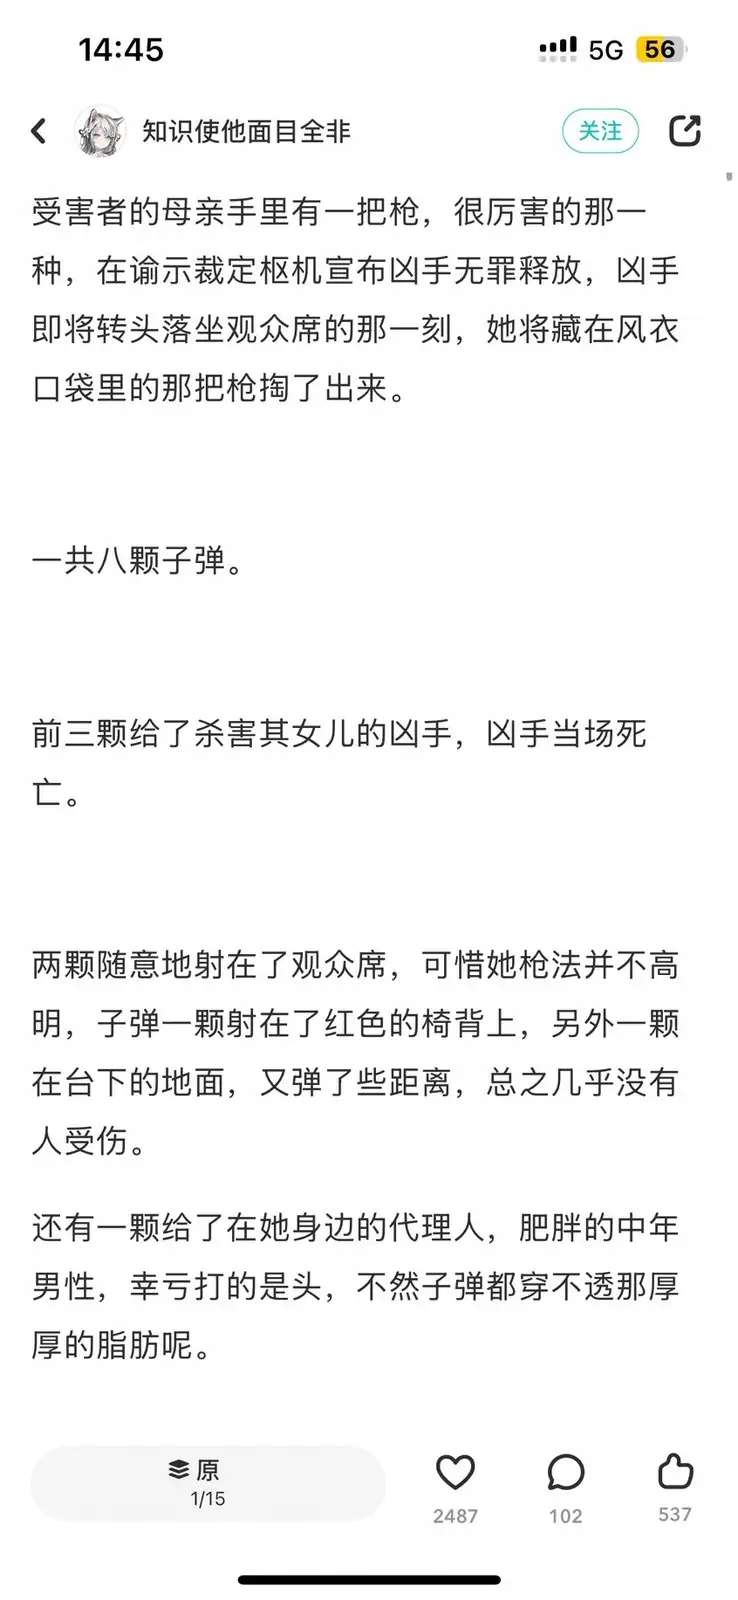
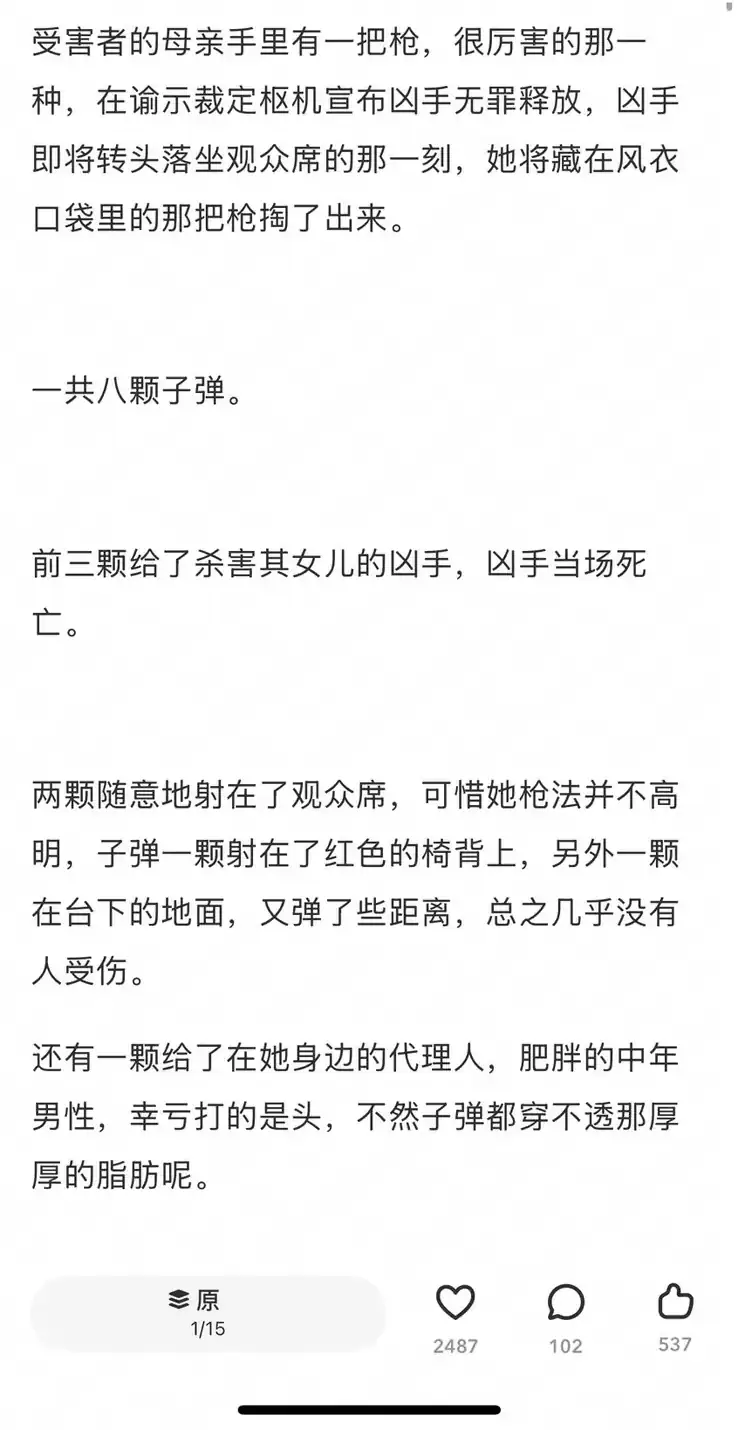
Add swipeable OC galleries and expand game list

diff --git a/demo/games.html b/demo/games.html
@@ -48,15 +48,18 @@
           </div>
         </section>
 
-        <details class="games-full">
-          <summary>展开完整 37 款游戏清单 / FULL LIST</summary>
+        <section class="games-section games-full-open" id="full-list">
+          <div class="games-section__head">
+            <h2>完整游戏经历 / FULL LIST</h2>
+            <span>底色标出有商业化拆解的重点游戏</span>
+          </div>
           <div class="games-table-wrap">
             <table class="games-table">
               <thead><tr><th>分类</th><th>游戏名称</th><th>平台</th><th>类型</th><th>时长</th><th>成就</th><th>付费经历</th></tr></thead>
-              <tbody><tr><td>一般向·二次元RPG/开放世界</td><td>Fate/Grand Order</td><td>移动</td><td>二次元RPG</td><td>1200+小时</td><td>主线剧情全通，等级60-70，累计签到3000+天</td><td>累计氪金1w+</td></tr><tr><td>一般向·二次元RPG/开放世界</td><td>原神</td><td>移动、PC</td><td>开放世界RPG</td><td>800+小时</td><td>主线&amp;传说任务全通，等级60-70，同人UGC曝光200万+</td><td>少量付费</td></tr><tr><td>一般向·二次元RPG/开放世界</td><td>崩坏：星穹铁道</td><td>移动、PC</td><td>回合制RPG</td><td>700+小时</td><td>主线剧情全通，开拓等级60-70，同人UGC曝光150万+</td><td>少量付费</td></tr><tr><td>一般向·二次元RPG/开放世界</td><td>鸣潮</td><td>移动、PC</td><td>开放世界动作RPG</td><td>600+小时</td><td>主线剧情全通，等级60-70，全角色养成、日常满勤</td><td>少量付费</td></tr><tr><td>一般向·二次元RPG/开放世界</td><td>异环</td><td>移动、PC</td><td>开放世界RPG</td><td>450+小时</td><td>主线剧情全通，等级60-70，玩法全解锁，持续跟进版本</td><td>少量付费</td></tr><tr><td>乙女·恋爱剧情向</td><td>世界之外</td><td>移动</td><td>乙女恋爱</td><td>500+小时</td><td>主线剧情全通，卡面收集86%</td><td>累计付费600+</td></tr><tr><td>乙女·恋爱剧情向</td><td>恋与深空</td><td>移动</td><td>乙女恋爱</td><td>480+小时</td><td>主线剧情全通，卡面收集82%</td><td>累计付费550+</td></tr><tr><td>乙女·恋爱剧情向</td><td>时空中的绘旅人</td><td>移动</td><td>乙女恋爱</td><td>420+小时</td><td>主线剧情全通，卡面收集78%</td><td>累计付费450+</td></tr><tr><td>乙女·恋爱剧情向</td><td>恋与制作人</td><td>移动</td><td>乙女恋爱</td><td>400+小时</td><td>主线剧情全通，卡面收集75%</td><td>累计付费400+</td></tr><tr><td>乙女·恋爱剧情向</td><td>未定事件簿</td><td>移动</td><td>乙女恋爱</td><td>380+小时</td><td>主线剧情全通，卡面收集72%</td><td>累计付费350+</td></tr><tr><td>乙女·恋爱剧情向</td><td>如鸢（代号鸢）</td><td>移动</td><td>乙女剧情向</td><td>360+小时</td><td>主线剧情全通，卡面收集70%</td><td>累计付费300+</td></tr><tr><td>乙女·恋爱剧情向</td><td>夜幕之下</td><td>移动</td><td>乙女恋爱</td><td>320+小时</td><td>主线剧情全通，卡面收集66%</td><td>累计付费250+</td></tr><tr><td>换装·女性向</td><td>无限暖暖</td><td>移动</td><td>换装开放世界</td><td>400+小时</td><td>主线剧情全通，开放世界探索，套装收集72%</td><td>累计付费300+</td></tr><tr><td>换装·女性向</td><td>闪耀暖暖</td><td>移动</td><td>换装养成</td><td>550+小时</td><td>主线剧情全通，套装收集80%，长期参与搭配赛</td><td>累计付费600+</td></tr><tr><td>非对称对抗</td><td>第五人格</td><td>移动、PC</td><td>非对称对抗</td><td>600+小时</td><td>赛季剧情全通，六阶段位，角色熟练度80%</td><td>少量付费</td></tr><tr><td>射击竞技</td><td>绝地求生 PUBG</td><td>PC</td><td>射击竞技</td><td>500+小时</td><td>累计500+小时，皇冠段位</td><td>少量付费</td></tr><tr><td>Steam单机·主机体验</td><td>鬼泣5</td><td>PC、主机</td><td>动作单机</td><td>120+小时</td><td>全DLC通关，DMD最高难度通关</td><td>一次性买断</td></tr><tr><td>Steam单机·主机体验</td><td>尼尔：机械纪元</td><td>PC、主机</td><td>剧情动作单机</td><td>100+小时</td><td>全结局A-E达成，收集率100%</td><td>一次性买断</td></tr><tr><td>Steam单机·主机体验</td><td>星露谷物语</td><td>PC、主机</td><td>农场模拟经营</td><td>100+小时</td><td>农场全解锁，社区中心完成</td><td>一次性买断</td></tr><tr><td>恐怖·悬疑剧情</td><td>午夜游轮</td><td>PC</td><td>悬疑剧情</td><td>60+小时</td><td>全结局通关，全CG收集</td><td>一次性买断</td></tr><tr><td>恐怖·悬疑剧情</td><td>玩具熊的五夜后宫 1-4</td><td>PC</td><td>恐怖悬疑</td><td>70+小时</td><td>全作通关，20/20模式达成</td><td>一次性买断</td></tr><tr><td>恐怖·悬疑剧情</td><td>心跳文学部</td><td>PC</td><td>剧情悬疑</td><td>40+小时</td><td>全结局+Plus支线，全CG收集</td><td>一次性买断</td></tr><tr><td>恐怖·悬疑剧情</td><td>蝶之毒华之锁</td><td>PC</td><td>乙女剧情</td><td>50+小时</td><td>全角色路线通关，全结局达成</td><td>一次性买断</td></tr><tr><td>开放世界·沙盒建造</td><td>我的世界</td><td>移动、PC</td><td>沙盒建造</td><td>700+小时</td><td>单人、联机服务器长期游玩，建筑红石作品积累</td><td>无付费</td></tr><tr><td>开放世界·沙盒建造</td><td>遗忘之海</td><td>PC</td><td>开放世界探索</td><td>300+小时</td><td>主线剧情、海域探索全通，玩法全解锁</td><td>一次性买断</td></tr><tr><td>IP系列·主机/Steam</td><td>女神异闻录全系列</td><td>PC、主机</td><td>JRPG</td><td>600+小时</td><td>P3R/P4G/P5R主线全通（含P5S），社群MAX，图鉴90%+</td><td>买断</td></tr><tr><td>IP系列·主机/Steam</td><td>JOJO的奇妙冒险：群星之战R</td><td>PC、主机</td><td>格斗</td><td>150+小时</td><td>全剧情模式通关，全角色解锁，连段熟练</td><td>买断</td></tr><tr><td>IP系列·主机/Steam</td><td>Fate系列（FGO外作品）</td><td>PC、主机</td><td>剧情向</td><td>200+小时</td><td>stay night重制版、Samurai Remnant，全路线结局通关</td><td>买断</td></tr><tr><td>古风MMO·游戏业务覆盖</td><td>大唐无双</td><td>移动、PC</td><td>古风MMO</td><td>400+小时</td><td>全平台社媒发行、达人KOC建联，垂类达人50+，UGC产出提升30%</td><td>项目体验，少量付费</td></tr><tr><td>古风MMO·游戏业务覆盖</td><td>一梦江湖</td><td>移动、PC</td><td>古风MMO</td><td>350+小时</td><td>同赛道竞品拆解，玩法体系、社区生态分析</td><td>少量付费</td></tr><tr><td>古风MMO·游戏业务覆盖</td><td>梦幻西游</td><td>移动、PC</td><td>古风MMO</td><td>300+小时</td><td>竞品拆解，经济系统、长线运营模式分析</td><td>少量付费</td></tr><tr><td>古风MMO·游戏业务覆盖</td><td>大话西游</td><td>移动、PC</td><td>古风MMO</td><td>280+小时</td><td>竞品拆解，熟悉回合制长线留存、社交生态</td><td>少量付费</td></tr><tr><td>点点互动品类</td><td>无尽冬日 Whiteout Survival</td><td>移动</td><td>末日生存SLG</td><td>600+小时</td><td>联盟首领，多轮版本活动拆解，熟悉海外长线运营、本地化投放逻辑</td><td>累计付费800+</td></tr><tr><td>点点互动品类</td><td>菲菲大冒险 Family Farm Adventure</td><td>移动</td><td>农场模拟经营</td><td>300+小时</td><td>主线剧情全通，熟悉休闲农场任务链、社交互助体系</td><td>累计付费200+</td></tr><tr><td>点点互动品类</td><td>Valor Legends 勇者传奇</td><td>移动</td><td>放置卡牌</td><td>280+小时</td><td>多套养成阵容成型，理解海外放置卡牌抽卡、轮换活动节奏</td><td>累计付费400+</td></tr><tr><td>点点互动品类</td><td>冰封之城 Frozen City</td><td>移动</td><td>末日生存策略</td><td>220+小时</td><td>全章节通关，理解题材差异化、资源循环、生存压力设计</td><td>累计付费200+</td></tr></tbody>
+              <tbody><tr class="is-business"><td>一般向·二次元RPG/开放世界</td><td>Fate/Grand Order</td><td>移动</td><td>二次元RPG</td><td>1200+小时</td><td>主线剧情全通，等级60-70，累计签到3000+天</td><td>累计氪金1w+</td></tr><tr class="is-business"><td>一般向·二次元RPG/开放世界</td><td>原神</td><td>移动、PC</td><td>开放世界RPG</td><td>800+小时</td><td>主线&amp;传说任务全通，等级60-70，同人UGC曝光200万+</td><td>少量付费</td></tr><tr class="is-business"><td>一般向·二次元RPG/开放世界</td><td>崩坏：星穹铁道</td><td>移动、PC</td><td>回合制RPG</td><td>700+小时</td><td>主线剧情全通，开拓等级60-70，同人UGC曝光150万+</td><td>少量付费</td></tr><tr><td>一般向·二次元RPG/开放世界</td><td>鸣潮</td><td>移动、PC</td><td>开放世界动作RPG</td><td>600+小时</td><td>主线剧情全通，等级60-70，全角色养成、日常满勤</td><td>少量付费</td></tr><tr><td>一般向·二次元RPG/开放世界</td><td>异环</td><td>移动、PC</td><td>开放世界RPG</td><td>450+小时</td><td>主线剧情全通，等级60-70，玩法全解锁，持续跟进版本</td><td>少量付费</td></tr><tr class="is-business"><td>乙女·恋爱剧情向</td><td>世界之外</td><td>移动</td><td>乙女恋爱</td><td>500+小时</td><td>主线剧情全通，卡面收集86%</td><td>累计付费600+</td></tr><tr class="is-business"><td>乙女·恋爱剧情向</td><td>恋与深空</td><td>移动</td><td>乙女恋爱</td><td>480+小时</td><td>主线剧情全通，卡面收集82%</td><td>累计付费550+</td></tr><tr><td>乙女·恋爱剧情向</td><td>时空中的绘旅人</td><td>移动</td><td>乙女恋爱</td><td>420+小时</td><td>主线剧情全通，卡面收集78%</td><td>累计付费450+</td></tr><tr><td>乙女·恋爱剧情向</td><td>恋与制作人</td><td>移动</td><td>乙女恋爱</td><td>400+小时</td><td>主线剧情全通，卡面收集75%</td><td>累计付费400+</td></tr><tr><td>乙女·恋爱剧情向</td><td>未定事件簿</td><td>移动</td><td>乙女恋爱</td><td>380+小时</td><td>主线剧情全通，卡面收集72%</td><td>累计付费350+</td></tr><tr><td>乙女·恋爱剧情向</td><td>如鸢（代号鸢）</td><td>移动</td><td>乙女剧情向</td><td>360+小时</td><td>主线剧情全通，卡面收集70%</td><td>累计付费300+</td></tr><tr><td>乙女·恋爱剧情向</td><td>夜幕之下</td><td>移动</td><td>乙女恋爱</td><td>320+小时</td><td>主线剧情全通，卡面收集66%</td><td>累计付费250+</td></tr><tr class="is-business"><td>换装·女性向</td><td>无限暖暖</td><td>移动</td><td>换装开放世界</td><td>400+小时</td><td>主线剧情全通，开放世界探索，套装收集72%</td><td>累计付费300+</td></tr><tr><td>换装·女性向</td><td>闪耀暖暖</td><td>移动</td><td>换装养成</td><td>550+小时</td><td>主线剧情全通，套装收集80%，长期参与搭配赛</td><td>累计付费600+</td></tr><tr class="is-business"><td>非对称对抗</td><td>第五人格</td><td>移动、PC</td><td>非对称对抗</td><td>600+小时</td><td>赛季剧情全通，六阶段位，角色熟练度80%</td><td>少量付费</td></tr><tr><td>射击竞技</td><td>绝地求生 PUBG</td><td>PC</td><td>射击竞技</td><td>500+小时</td><td>累计500+小时，皇冠段位</td><td>少量付费</td></tr><tr class="is-business"><td>Steam单机·主机体验</td><td>鬼泣5</td><td>PC、主机</td><td>动作单机</td><td>120+小时</td><td>全DLC通关，DMD最高难度通关</td><td>一次性买断</td></tr><tr><td>Steam单机·主机体验</td><td>尼尔：机械纪元</td><td>PC、主机</td><td>剧情动作单机</td><td>100+小时</td><td>全结局A-E达成，收集率100%</td><td>一次性买断</td></tr><tr><td>Steam单机·主机体验</td><td>星露谷物语</td><td>PC、主机</td><td>农场模拟经营</td><td>100+小时</td><td>农场全解锁，社区中心完成</td><td>一次性买断</td></tr><tr><td>恐怖·悬疑剧情</td><td>午夜游轮</td><td>PC</td><td>悬疑剧情</td><td>60+小时</td><td>全结局通关，全CG收集</td><td>一次性买断</td></tr><tr><td>恐怖·悬疑剧情</td><td>玩具熊的五夜后宫 1-4</td><td>PC</td><td>恐怖悬疑</td><td>70+小时</td><td>全作通关，20/20模式达成</td><td>一次性买断</td></tr><tr class="is-business"><td>恐怖·悬疑剧情</td><td>心跳文学部</td><td>PC</td><td>剧情悬疑</td><td>40+小时</td><td>全结局+Plus支线，全CG收集</td><td>一次性买断</td></tr><tr><td>恐怖·悬疑剧情</td><td>蝶之毒华之锁</td><td>PC</td><td>乙女剧情</td><td>50+小时</td><td>全角色路线通关，全结局达成</td><td>一次性买断</td></tr><tr class="is-business"><td>开放世界·沙盒建造</td><td>我的世界</td><td>移动、PC</td><td>沙盒建造</td><td>700+小时</td><td>单人、联机服务器长期游玩，建筑红石作品积累</td><td>无付费</td></tr><tr><td>开放世界·沙盒建造</td><td>遗忘之海</td><td>PC</td><td>开放世界探索</td><td>300+小时</td><td>主线剧情、海域探索全通，玩法全解锁</td><td>一次性买断</td></tr><tr><td>IP系列·主机/Steam</td><td>女神异闻录全系列</td><td>PC、主机</td><td>JRPG</td><td>600+小时</td><td>P3R/P4G/P5R主线全通（含P5S），社群MAX，图鉴90%+</td><td>买断</td></tr><tr><td>IP系列·主机/Steam</td><td>JOJO的奇妙冒险：群星之战R</td><td>PC、主机</td><td>格斗</td><td>150+小时</td><td>全剧情模式通关，全角色解锁，连段熟练</td><td>买断</td></tr><tr><td>IP系列·主机/Steam</td><td>Fate系列（FGO外作品）</td><td>PC、主机</td><td>剧情向</td><td>200+小时</td><td>stay night重制版、Samurai Remnant，全路线结局通关</td><td>买断</td></tr><tr class="is-business"><td>古风MMO·游戏业务覆盖</td><td>大唐无双</td><td>移动、PC</td><td>古风MMO</td><td>400+小时</td><td>全平台社媒发行、达人KOC建联，垂类达人50+，UGC产出提升30%</td><td>项目体验，少量付费</td></tr><tr><td>古风MMO·游戏业务覆盖</td><td>一梦江湖</td><td>移动、PC</td><td>古风MMO</td><td>350+小时</td><td>同赛道竞品拆解，玩法体系、社区生态分析</td><td>少量付费</td></tr><tr><td>古风MMO·游戏业务覆盖</td><td>梦幻西游</td><td>移动、PC</td><td>古风MMO</td><td>300+小时</td><td>竞品拆解，经济系统、长线运营模式分析</td><td>少量付费</td></tr><tr><td>古风MMO·游戏业务覆盖</td><td>大话西游</td><td>移动、PC</td><td>古风MMO</td><td>280+小时</td><td>竞品拆解，熟悉回合制长线留存、社交生态</td><td>少量付费</td></tr><tr class="is-business"><td>点点互动品类</td><td>无尽冬日 Whiteout Survival</td><td>移动</td><td>末日生存SLG</td><td>600+小时</td><td>联盟首领，多轮版本活动拆解，熟悉海外长线运营、本地化投放逻辑</td><td>累计付费800+</td></tr><tr><td>点点互动品类</td><td>菲菲大冒险 Family Farm Adventure</td><td>移动</td><td>农场模拟经营</td><td>300+小时</td><td>主线剧情全通，熟悉休闲农场任务链、社交互助体系</td><td>累计付费200+</td></tr><tr><td>点点互动品类</td><td>Valor Legends 勇者传奇</td><td>移动</td><td>放置卡牌</td><td>280+小时</td><td>多套养成阵容成型，理解海外放置卡牌抽卡、轮换活动节奏</td><td>累计付费400+</td></tr><tr><td>点点互动品类</td><td>冰封之城 Frozen City</td><td>移动</td><td>末日生存策略</td><td>220+小时</td><td>全章节通关，理解题材差异化、资源循环、生存压力设计</td><td>累计付费200+</td></tr></tbody>
             </table>
           </div>
-        </details>
+        </section>
 
         <section class="games-section">
           <div class="games-section__head">

diff --git a/assets/js/oc.js b/assets/js/oc.js
@@ -232,13 +232,38 @@
     lastTrigger?.focus();
   };
 
+  const setupCarousel = (carousel) => {
+    const track = carousel.querySelector(".oc-carousel__track");
+    const dots = Array.from(carousel.querySelectorAll("[data-oc-carousel-dot]"));
+    if (!track || dots.length < 2) return;
+
+    const update = () => {
+      const index = Math.round(track.scrollLeft / Math.max(track.clientWidth, 1));
+      dots.forEach((dot, dotIndex) => {
+        const active = dotIndex === index;
+        dot.classList.toggle("is-active", active);
+        dot.setAttribute("aria-current", active ? "true" : "false");
+      });
+    };
+
+    carousel.querySelector("[data-oc-carousel-prev]")?.addEventListener("click", () => {
+      track.scrollBy({ left: -track.clientWidth, behavior: "smooth" });
+    });
+    carousel.querySelector("[data-oc-carousel-next]")?.addEventListener("click", () => {
+      track.scrollBy({ left: track.clientWidth, behavior: "smooth" });
+    });
+    dots.forEach((dot, dotIndex) => {
+      dot.addEventListener("click", () => {
+        track.scrollTo({ left: track.clientWidth * dotIndex, behavior: "smooth" });
+      });
+    });
+    track.addEventListener("scroll", () => window.requestAnimationFrame(update), { passive: true });
+    update();
+  };
+
   const renderMedia = (topic) => {
     if (!modalMedia) return;
     modalMedia.innerHTML = "";
-    modalMedia.classList.toggle("oc-modal__media--two", Boolean(topic.mediaTwo));
-    modalMedia.classList.toggle("oc-modal__media--tall", Boolean(topic.mediaTall));
-    modalMedia.classList.toggle("oc-modal__media--one", Boolean(topic.mediaOne));
-    modalMedia.classList.toggle("oc-modal__media--fit", Boolean(topic.mediaFit));
 
     if (!topic.media?.length) {
       modalMedia.hidden = true;
@@ -246,30 +271,79 @@
     }
 
     modalMedia.hidden = false;
-    topic.media.forEach((item) => {
-      const figure = document.createElement("figure");
-      figure.className = "oc-media__item";
+    const videos = topic.media.filter((item) => item.type === "video");
+    const images = topic.media.filter((item) => item.type !== "video");
 
-      if (item.type === "video") {
-        figure.classList.add("oc-media__item--video");
+    if (videos.length) {
+      const videoRow = document.createElement("div");
+      videoRow.className = "oc-media-videos";
+      videos.forEach((item) => {
+        const figure = document.createElement("figure");
+        figure.className = "oc-media__item oc-media__item--video";
         figure.innerHTML = `
           <video controls playsinline preload="none" poster="${item.poster}">
             <source src="${item.src}" type="video/mp4" />
           </video>
           <figcaption>${item.caption}</figcaption>
         `;
-      } else {
-        figure.innerHTML = `
+        videoRow.appendChild(figure);
+      });
+      modalMedia.appendChild(videoRow);
+    }
+
+    if (images.length) {
+      const carousel = document.createElement("div");
+      carousel.className = `oc-carousel${images.length === 1 ? " is-single" : ""}`;
+      const track = document.createElement("div");
+      track.className = "oc-carousel__track";
+
+      images.forEach((item, index) => {
+        const slide = document.createElement("figure");
+        slide.className = "oc-media__item oc-carousel__slide";
+        slide.innerHTML = `
           <a href="${item.src}" data-oc-zoom>
             <img src="${item.src}" alt="${item.alt}" loading="lazy" />
             <i class="oc-media__zoom" aria-hidden="true">↗</i>
           </a>
           <figcaption>${item.caption}</figcaption>
         `;
-      }
+        track.appendChild(slide);
+      });
 
-      modalMedia.appendChild(figure);
-    });
+      carousel.appendChild(track);
+      if (images.length > 1) {
+        const prev = document.createElement("button");
+        prev.type = "button";
+        prev.className = "oc-carousel__btn oc-carousel__btn--prev";
+        prev.dataset.ocCarouselPrev = "";
+        prev.setAttribute("aria-label", "上一张");
+        prev.textContent = "←";
+
+        const next = document.createElement("button");
+        next.type = "button";
+        next.className = "oc-carousel__btn oc-carousel__btn--next";
+        next.dataset.ocCarouselNext = "";
+        next.setAttribute("aria-label", "下一张");
+        next.textContent = "→";
+
+        const dots = document.createElement("div");
+        dots.className = "oc-carousel__dots";
+        images.forEach((item, index) => {
+          const dot = document.createElement("button");
+          dot.type = "button";
+          dot.dataset.ocCarouselDot = "";
+          dot.setAttribute("aria-label", `第 ${index + 1} 张`);
+          if (index === 0) dot.classList.add("is-active");
+          dots.appendChild(dot);
+        });
+
+        carousel.appendChild(prev);
+        carousel.appendChild(next);
+        carousel.appendChild(dots);
+      }
+      modalMedia.appendChild(carousel);
+      setupCarousel(carousel);
+    }
   };
 
   const renderStep = (stepKey) => {

diff --git a/assets/css/oc.css b/assets/css/oc.css
@@ -366,6 +366,10 @@
   border-top: 1px solid rgba(246, 241, 228, 0.14);
 }
 
+.oc-modal__media {
+  display: block;
+}
+
 .oc-process[hidden] {
   display: none;
 }
@@ -459,6 +463,128 @@
 
 .oc-modal__media[hidden] {
   display: none;
+}
+
+.oc-media-videos {
+  margin-top: 12px;
+}
+
+.oc-media-videos .oc-media__item--video {
+  margin: 0;
+}
+
+.oc-carousel {
+  position: relative;
+  margin-top: 12px;
+}
+
+.oc-carousel__track {
+  display: flex;
+  overflow-x: auto;
+  overscroll-behavior-x: contain;
+  scroll-snap-type: x mandatory;
+  scrollbar-width: none;
+  background: #0f0c0b;
+  border: 1px solid rgba(246, 241, 228, 0.16);
+  touch-action: pan-x;
+}
+
+.oc-carousel__track::-webkit-scrollbar {
+  display: none;
+}
+
+.oc-carousel__slide {
+  flex: 0 0 100%;
+  min-width: 0;
+  margin: 0;
+  border: 0;
+  background: transparent;
+  box-shadow: none;
+  scroll-snap-align: center;
+}
+
+.oc-carousel__slide a {
+  position: relative;
+  display: block;
+  padding: 8px;
+}
+
+.oc-carousel__slide img {
+  display: block;
+  width: 100%;
+  height: clamp(360px, 52vh, 520px);
+  object-fit: contain;
+  background: #0f0c0b;
+}
+
+.oc-carousel__slide figcaption {
+  padding: 8px 10px 9px;
+  color: rgba(246, 241, 228, 0.62);
+  font-size: 10px;
+  line-height: 1.55;
+}
+
+.oc-carousel__btn {
+  position: absolute;
+  top: 50%;
+  z-index: 3;
+  display: grid;
+  width: 34px;
+  height: 34px;
+  place-items: center;
+  color: #fff;
+  background: rgba(10, 9, 8, 0.62);
+  border: 1px solid rgba(255, 255, 255, 0.38);
+  cursor: pointer;
+  transform: translateY(-50%);
+}
+
+.oc-carousel__btn:hover {
+  background: #8a2c1e;
+  border-color: #ff8a6b;
+}
+
+.oc-carousel__btn--prev {
+  left: 16px;
+}
+
+.oc-carousel__btn--next {
+  right: 16px;
+}
+
+.oc-carousel__dots {
+  position: absolute;
+  right: 0;
+  bottom: 10px;
+  left: 0;
+  z-index: 3;
+  display: flex;
+  justify-content: center;
+  gap: 5px;
+  pointer-events: none;
+}
+
+.oc-carousel__dots button {
+  width: 18px;
+  height: 3px;
+  padding: 0;
+  background: rgba(255, 255, 255, 0.3);
+  border: 0;
+  cursor: pointer;
+  pointer-events: auto;
+}
+
+.oc-carousel__dots button.is-active {
+  background: #ff8a6b;
+}
+
+.oc-carousel.is-single .oc-carousel__track {
+  border: 0;
+  background: transparent;
+}
+
+.oc-carousel.is-single .oc-carousel__slide a {
+  padding: 0;
 }
 
 .oc-media__item {
@@ -707,6 +833,23 @@
   .oc-media__item--video video {
     height: 220px;
   }
+
+  .oc-carousel__slide img {
+    height: clamp(300px, 48vh, 440px);
+  }
+
+  .oc-carousel__btn {
+    width: 30px;
+    height: 30px;
+  }
+
+  .oc-carousel__btn--prev {
+    left: 10px;
+  }
+
+  .oc-carousel__btn--next {
+    right: 10px;
+  }
 }
 
 @media (prefers-reduced-motion: reduce) {
@@ -717,5 +860,41 @@
   .oc-modal__card,
   .oc-btn {
     transition: none;
+  }
+}
+
+/* 轮播画廊优先级覆盖 */
+.oc-carousel .oc-carousel__slide {
+  flex: 0 0 100%;
+  margin: 0;
+  border: 0;
+  background: transparent;
+  box-shadow: none;
+}
+
+.oc-carousel .oc-carousel__slide a {
+  display: block;
+  padding: 8px;
+}
+
+.oc-carousel .oc-carousel__slide img {
+  display: block;
+  width: 100%;
+  height: clamp(360px, 52vh, 520px);
+  object-fit: contain;
+  object-position: center;
+  background: #0f0c0b;
+}
+
+.oc-carousel .oc-carousel__slide figcaption {
+  padding: 8px 10px 9px;
+  color: rgba(246, 241, 228, 0.62);
+  font-size: 10px;
+  line-height: 1.55;
+}
+
+@media (max-width: 820px) {
+  .oc-carousel .oc-carousel__slide img {
+    height: clamp(300px, 48vh, 440px);
   }
 }

diff --git a/assets/css/games.css b/assets/css/games.css
@@ -218,6 +218,18 @@
   border-top: 1px solid var(--line);
 }
 
+.games-full-open {
+  margin-top: 46px;
+}
+
+.games-table tbody tr.is-business td {
+  background: rgba(217, 79, 43, 0.1);
+}
+
+.games-table tbody tr.is-business td:first-child {
+  box-shadow: inset 3px 0 0 var(--accent);
+}
+
 .games-full summary {
   padding: 16px 0;
   color: var(--accent-2);
